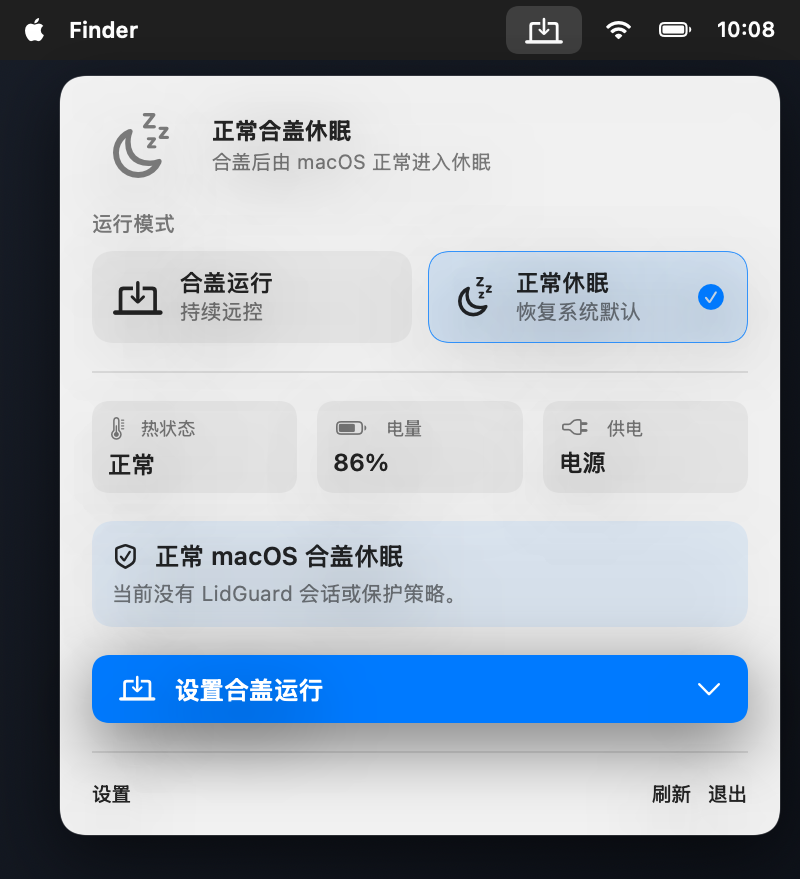
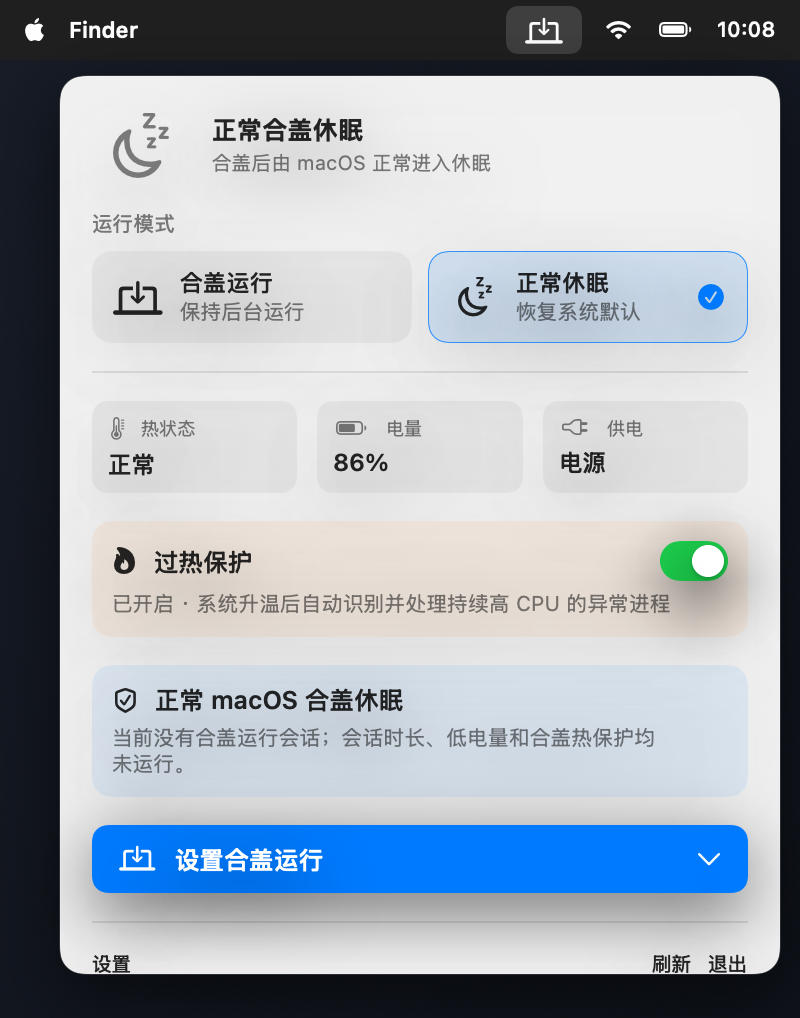
Move thermal protection to the main panel

diff --git a/Sources/LidGuardApp/ContentView.swift b/Sources/LidGuardApp/ContentView.swift
@@ -12,6 +12,7 @@ struct MenuContentView: View {
             modeSwitcher
             Divider()
             metrics
+            overheatProtectionCard
 
             if store.status?.mode == .active {
                 activeSession
@@ -114,7 +115,7 @@ struct MenuContentView: View {
             HStack(spacing: 8) {
                 modeButton(
                     title: "合盖运行",
-                    subtitle: "持续远控",
+                    subtitle: "保持后台运行",
                     icon: "laptopcomputer.and.arrow.down",
                     selected: store.status?.mode == .active,
                     tint: .green
@@ -214,11 +215,46 @@ struct MenuContentView: View {
         }
     }
 
+    private var overheatProtectionCard: some View {
+        VStack(alignment: .leading, spacing: 5) {
+            Toggle(
+                isOn: Binding(
+                    get: { store.status?.overheatProtectionEnabled ?? false },
+                    set: { store.setOverheatProtection($0) }
+                )
+            ) {
+                Label("过热保护", systemImage: "flame.fill")
+                    .font(.subheadline.weight(.semibold))
+            }
+            .disabled(store.isWorking || store.helperRepairRequired || store.status == nil)
+
+            Text(overheatProtectionSummary)
+                .font(.caption)
+                .foregroundStyle(.secondary)
+                .fixedSize(horizontal: false, vertical: true)
+
+            if let hotspot = store.status?.lastTerminatedHotspot {
+                Text("最近处理：\(hotspot.processName) · CPU \(Int(hotspot.cpuPercent.rounded()))%")
+                    .font(.caption2)
+                    .foregroundStyle(.secondary)
+            }
+        }
+        .padding(10)
+        .frame(maxWidth: .infinity, alignment: .leading)
+        .background(.orange.opacity(0.09), in: RoundedRectangle(cornerRadius: 10))
+    }
+
+    private var overheatProtectionSummary: String {
+        store.status?.overheatProtectionEnabled == true
+            ? "已开启 · 系统升温后自动识别并处理持续高 CPU 的异常进程"
+            : "已关闭 · 不会自动结束异常进程"
+    }
+
     private var normalSleepSummary: some View {
         VStack(alignment: .leading, spacing: 5) {
             Label("由 macOS 正常管理睡眠", systemImage: "checkmark.shield")
                 .font(.subheadline.weight(.semibold))
-            Text("当前没有合盖运行会话，也没有时长、低电量或温度保护倒计时。")
+            Text("当前没有合盖运行会话；会话时长、低电量和合盖热保护均未运行。")
                 .font(.caption)
                 .foregroundStyle(.secondary)
                 .fixedSize(horizontal: false, vertical: true)
@@ -330,7 +366,7 @@ struct MenuContentView: View {
         if store.durationChoice == .unlimited {
             return "将持续合盖运行，直到你手动恢复正常休眠。"
         }
-        return "到期后自动恢复正常合盖休眠；如果当时仍合盖，vivo 和 Agent 会随系统睡眠断开。"
+        return "到期后自动恢复正常合盖休眠；若当时仍合盖，远程连接和后台任务会随系统睡眠中断。"
     }
 
     private var activeSession: some View {
@@ -445,26 +481,6 @@ struct SettingsContentView: View {
                 )
             }
 
-            Section("过热保护") {
-                Toggle(
-                    "自动结束异常热点",
-                    isOn: Binding(
-                        get: { store.status?.overheatProtectionEnabled ?? false },
-                        set: { store.setOverheatProtection($0) }
-                    )
-                )
-                .disabled(store.isWorking || store.helperRepairRequired || store.status == nil)
-                Text("系统进入升温、严重或临界热压力后，持续观察高 CPU 进程，确认异常后请求其正常退出。此功能独立于合盖运行。")
-                    .font(.caption)
-                    .foregroundStyle(.secondary)
-                if let hotspot = store.status?.lastTerminatedHotspot {
-                    LabeledContent(
-                        "最近处理",
-                        value: "\(hotspot.processName) · CPU \(Int(hotspot.cpuPercent.rounded()))%"
-                    )
-                }
-            }
-
             Section("组件") {
                 LabeledContent("Helper", value: store.helperAuthorizationDisplayName)
                 LabeledContent("CLI", value: FileManager.default.fileExists(atPath: LidGuardConstants.cliPath) ? "已安装" : "未安装")
@@ -492,7 +508,7 @@ struct SettingsContentView: View {
         }
         .formStyle(.grouped)
         .padding()
-        .frame(width: 480, height: 500)
+        .frame(width: 480, height: 390)
         .alert("确认卸载 Helper？", isPresented: $confirmUninstall) {
             Button("取消", role: .cancel) {}
             Button("恢复并卸载", role: .destructive) { store.uninstallHelper() }

diff --git a/scripts/render-readme-screenshots.swift b/scripts/render-readme-screenshots.swift
@@ -25,6 +25,8 @@ private struct Copy {
     let battery: String
     let power: String
     let acPower: String
+    let overheatProtection: String
+    let overheatProtectionEnabled: String
     let balanced: String
     let noTimeLimit: String
     let lowBatteryThreshold: String
@@ -61,6 +63,8 @@ private struct Copy {
         battery: "BATTERY",
         power: "POWER",
         acPower: "AC Power",
+        overheatProtection: "Thermal Hotspot Protection",
+        overheatProtectionEnabled: "On · Detects sustained high-CPU processes when the system heats up",
         balanced: "Balanced",
         noTimeLimit: "No time limit",
         lowBatteryThreshold: "Low-battery threshold",
@@ -79,7 +83,7 @@ private struct Copy {
         thresholdHint: "Adjustable threshold. Serious thermal pressure automatically restores normal sleep.",
         applyChanges: "Apply Changes",
         normalBehavior: "Normal macOS sleep behavior",
-        noActiveSession: "No LidGuard session or safeguards are active.",
+        noActiveSession: "No lid-closed session; timer, battery, and lid thermal safeguards are inactive.",
         setUpMode: "Set Up Lid-Closed Mode"
     )
 
@@ -90,7 +94,7 @@ private struct Copy {
         normalSubtitle: "合盖后由 macOS 正常进入休眠",
         runMode: "运行模式",
         keepRunning: "合盖运行",
-        keepRunningSubtitle: "持续远控",
+        keepRunningSubtitle: "保持后台运行",
         normalSleep: "正常休眠",
         normalSleepSubtitle: "恢复系统默认",
         thermal: "热状态",
@@ -98,6 +102,8 @@ private struct Copy {
         battery: "电量",
         power: "供电",
         acPower: "电源",
+        overheatProtection: "过热保护",
+        overheatProtectionEnabled: "已开启 · 系统升温后自动识别并处理持续高 CPU 的异常进程",
         balanced: "平衡",
         noTimeLimit: "不限时运行",
         lowBatteryThreshold: "低电量保护",
@@ -116,7 +122,7 @@ private struct Copy {
         thresholdHint: "可调整阈值；系统热压力严重时自动恢复正常休眠。",
         applyChanges: "应用修改",
         normalBehavior: "正常 macOS 合盖休眠",
-        noActiveSession: "当前没有 LidGuard 会话或保护策略。",
+        noActiveSession: "当前没有合盖运行会话；会话时长、低电量和合盖热保护均未运行。",
         setUpMode: "设置合盖运行"
     )
 }
@@ -326,6 +332,29 @@ private struct Metrics: View {
     }
 }
 
+private struct OverheatProtectionCard: View {
+    let dark: Bool
+    let copy: Copy
+
+    var body: some View {
+        VStack(alignment: .leading, spacing: 5) {
+            HStack {
+                Label(copy.overheatProtection, systemImage: "flame.fill")
+                    .font(.system(size: 12.5, weight: .semibold))
+                Spacer()
+                EnabledSwitchPreview()
+            }
+            Text(copy.overheatProtectionEnabled)
+                .font(.system(size: 10.5))
+                .foregroundStyle(.secondary)
+                .fixedSize(horizontal: false, vertical: true)
+        }
+        .padding(10)
+        .frame(maxWidth: .infinity, alignment: .leading)
+        .background(Color.orange.opacity(dark ? 0.12 : 0.09), in: RoundedRectangle(cornerRadius: 10))
+    }
+}
+
 private struct ActiveSession: View {
     let threshold: Int
     let dark: Bool
@@ -399,6 +428,7 @@ private struct ActivePanel: View {
             ModeSwitcher(active: true, dark: dark, copy: copy)
             Divider()
             Metrics(battery: 86, dark: dark, copy: copy)
+            OverheatProtectionCard(dark: dark, copy: copy)
             ActiveSession(threshold: threshold, dark: dark, copy: copy)
 
             HStack {
@@ -419,7 +449,7 @@ private struct ActivePanel: View {
             Footer(copy: copy)
         }
         .padding(16)
-        .frame(width: 360, height: expanded ? 683.5 : 439.5, alignment: .topLeading)
+        .frame(width: 360, height: expanded ? 753 : 509, alignment: .topLeading)
         .background(dark ? Palette.darkBackground : Palette.lightBackground)
         .environment(\.colorScheme, dark ? .dark : .light)
     }
@@ -527,6 +557,7 @@ private struct NormalPanel: View {
             ModeSwitcher(active: false, dark: false, copy: copy)
             Divider()
             Metrics(battery: 86, dark: false, copy: copy)
+            OverheatProtectionCard(dark: false, copy: copy)
 
             VStack(alignment: .leading, spacing: 5) {
                 Label(copy.normalBehavior, systemImage: "checkmark.shield")
@@ -555,7 +586,7 @@ private struct NormalPanel: View {
             Footer(copy: copy)
         }
         .padding(16)
-        .frame(width: 360, height: 379.5, alignment: .topLeading)
+        .frame(width: 360, height: 449, alignment: .topLeading)
         .background(Palette.lightBackground)
         .environment(\.colorScheme, .light)
     }

diff --git a/Sources/LidGuardApp/SettingsWindowController.swift b/Sources/LidGuardApp/SettingsWindowController.swift
@@ -20,7 +20,7 @@ final class SettingsWindowController {
             let newWindow = NSWindow(contentViewController: hostingController)
             newWindow.title = "合盖守护设置"
             newWindow.styleMask = [.titled, .closable, .miniaturizable]
-            newWindow.setContentSize(NSSize(width: 480, height: 500))
+            newWindow.setContentSize(NSSize(width: 480, height: 390))
             newWindow.isReleasedWhenClosed = false
             newWindow.collectionBehavior = [.moveToActiveSpace]
             newWindow.center()

diff --git a/README.md b/README.md
@@ -128,7 +128,7 @@ When **Prevent Automatic Lock** is enabled, the helper keeps the display awake a
 
 ## Generic thermal hotspot protection
 
-The **Automatically Terminate CPU Hotspots** setting is an independent, persistent switch; it does not require an active lid-closed session. When enabled, the helper checks macOS thermal pressure and CPU usage for processes owned by the logged-in user every five seconds:
+The first-level **Thermal Hotspot Protection** switch is independent and persistent; it does not require an active lid-closed session. When enabled, the helper checks macOS thermal pressure and CPU usage for processes owned by the logged-in user every five seconds:
 
 - `fair`: at least 80% CPU continuously for 30 seconds.
 - `serious`: at least 50% CPU continuously for 15 seconds.
@@ -243,7 +243,7 @@ Tests: 28 passed, 0 failed
 
 Verified on the development Mac:
 
-- During an active session, vivo remote control remains visible and usable after the lid closes, while coding agents continue running.
+- During an active session, remote access remains available after the lid closes, while local background tasks continue running.
 - In Normal Sleep mode, remote control becomes unusable after the lid closes and macOS follows its default sleep behavior.
 - The helper continues enforcing timers, low-battery safeguards, thermal safeguards, and automatic-lock protection after the app quits.
 - Automatic-lock prevention remained active overnight on the development Mac without starting a `caffeinate` process.

diff --git a/README.zh-CN.md b/README.zh-CN.md
@@ -128,7 +128,7 @@ make dmg
 
 ## 通用过热保护
 
-设置中的“自动结束异常热点”是独立常驻开关，不要求正在进行合盖运行会话。开启后，Helper 每 5 秒读取 macOS 热压力与当前登录用户的进程 CPU 占用：
+一级面板中的“过热保护”是独立常驻开关，不要求正在进行合盖运行会话。开启后，Helper 每 5 秒读取 macOS 热压力与当前登录用户的进程 CPU 占用：
 
 - `fair`（升温）：CPU 持续达到 80% 满 30 秒。
 - `serious`（严重）：CPU 持续达到 50% 满 15 秒。
@@ -243,7 +243,7 @@ Tests: 28 passed, 0 failed
 
 当前开发机已验证：
 
-- 合盖运行时，vivo 远控保持可见、可操作，本地编程 Agent 继续执行。
+- 合盖运行时，远程访问保持可用，本地后台任务继续执行。
 - 正常休眠时，合盖后远控不可操作，macOS 按默认行为进入睡眠。
 - App 退出后，helper 仍能执行定时、低电量、热状态和防自动锁屏保护。
 - 开发机已连续一晚验证防自动锁屏生效，期间没有启动 `caffeinate` 进程。
